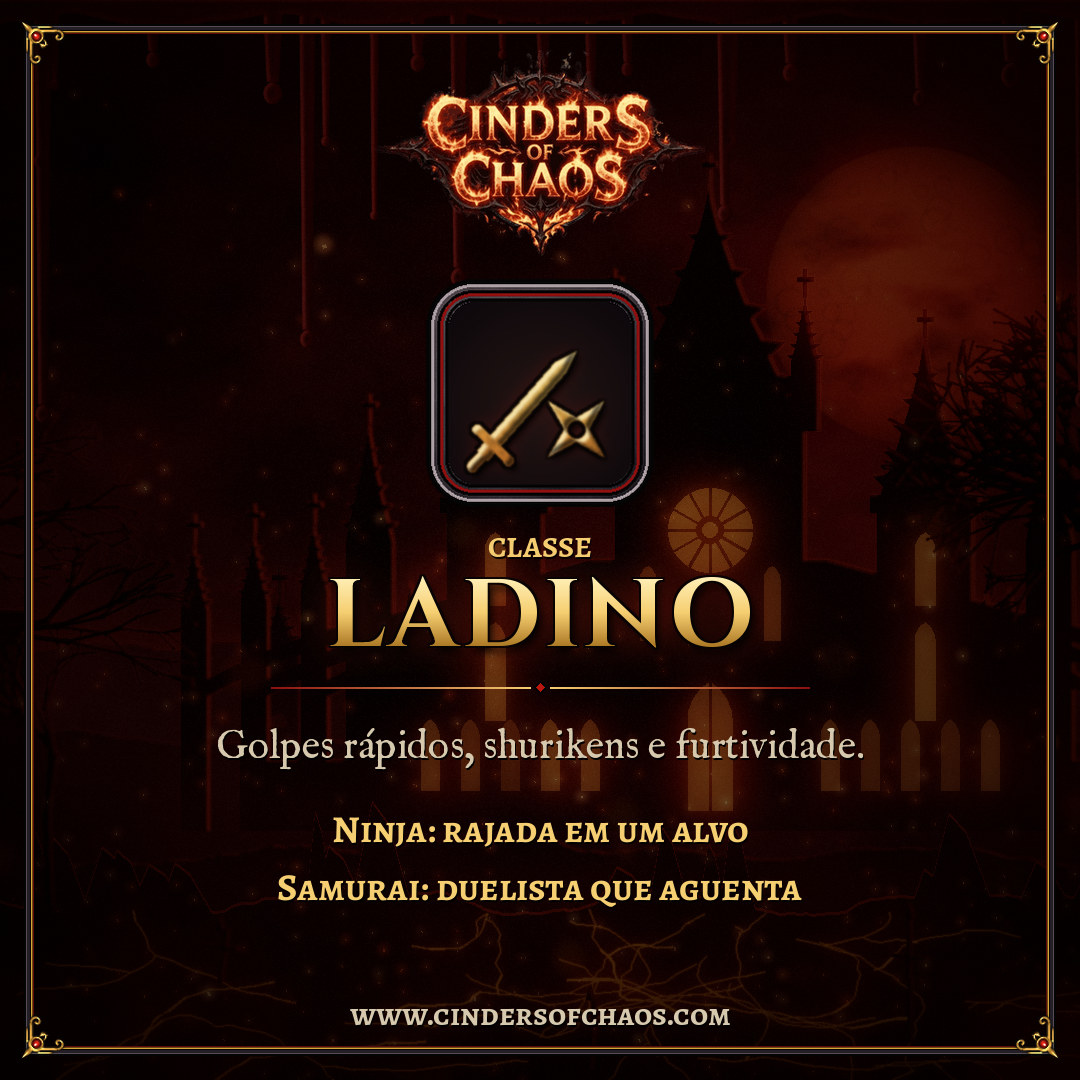
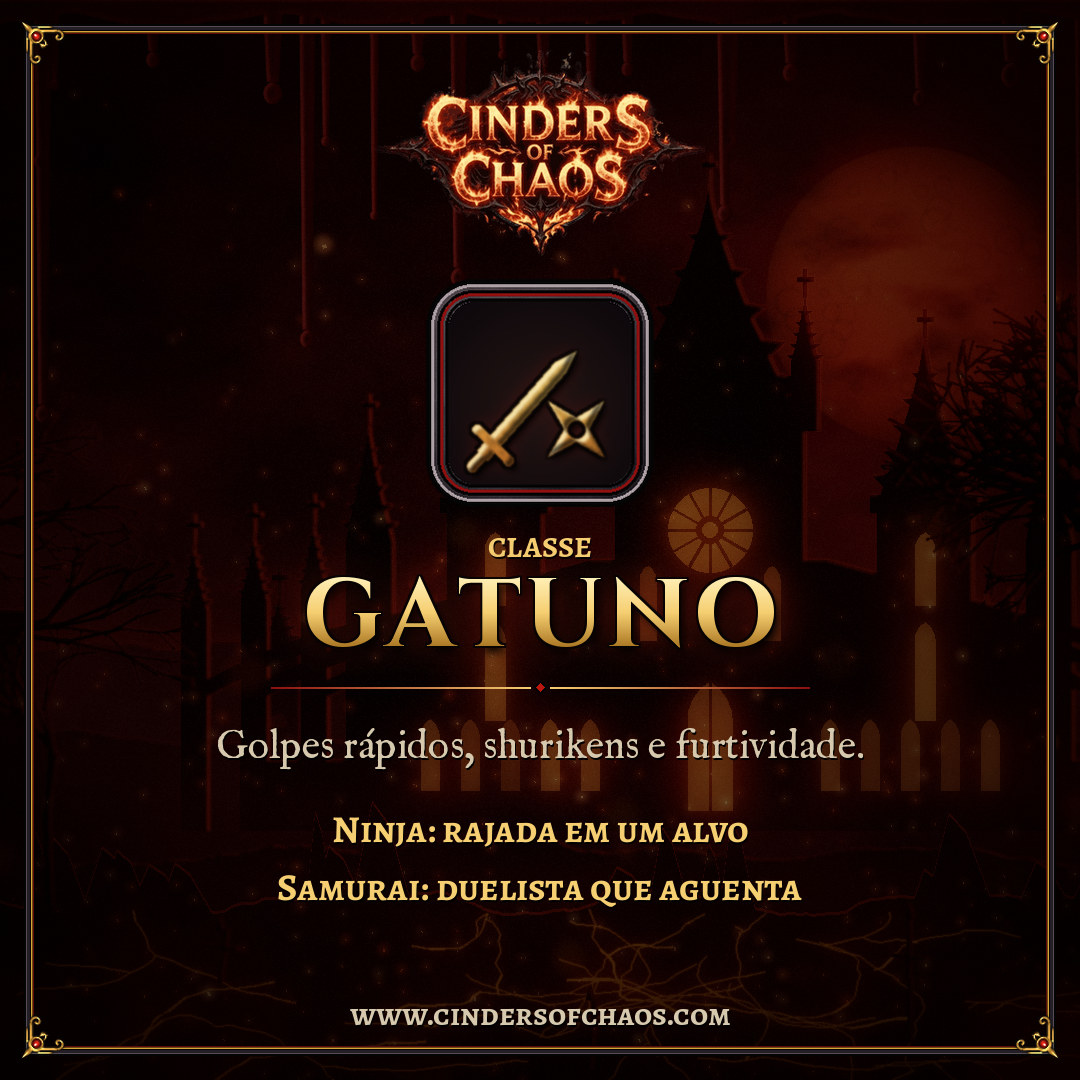
pt-BR: the Thief class is Gatuno (was Ladino)
Owner 2026-11-06. Unique item texts, the client locale, the promo kit
source and card, the montage names and the media kit manifest.

Claude-Session: https://claude.ai/code/session_01WHWmB5BBQcgggKkXbJNDqe

Changed region(s): [[0.275, 0.5194, 0.7333, 0.6111]]

diff --git a/website/tools/gen_promo_montage.py b/website/tools/gen_promo_montage.py
@@ -28,7 +28,7 @@ FPS = 30
 CROP = {'wide': (300, 100, 1280, 720), 'tall': (680, 38, 522, 928)}
 FULL = {'wide': (0, 0, 1920, 1080), 'tall': (656, 0, 608, 1080)}
 SIZE = {'wide': (1920, 1080), 'tall': (1080, 1920)}
-CLASS_NAMES = {'pt-BR': {'mystic': 'Místico', 'warrior': 'Guerreiro', 'thief': 'Ladino', 'ranger': 'Patrulheiro',
+CLASS_NAMES = {'pt-BR': {'mystic': 'Místico', 'warrior': 'Guerreiro', 'thief': 'Gatuno', 'ranger': 'Patrulheiro',
                          'monk': 'Monge', 'necro': 'Necromante', 'templar': 'Templário'},
                'en': {'mystic': 'Mystic', 'warrior': 'Warrior', 'thief': 'Thief', 'ranger': 'Ranger',
                       'monk': 'Monk', 'necro': 'Necromancer', 'templar': 'Templar'}}
